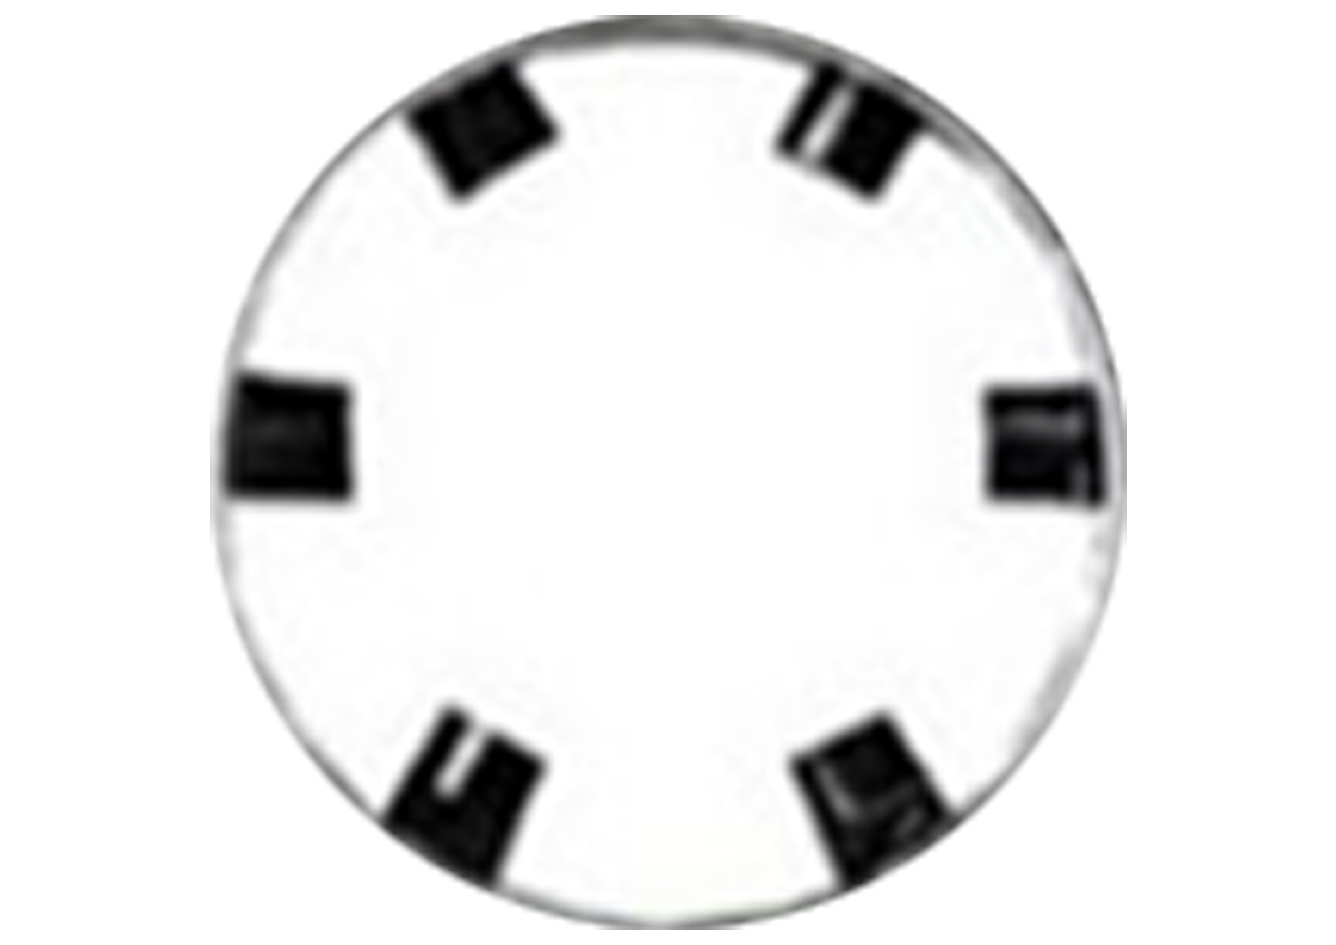
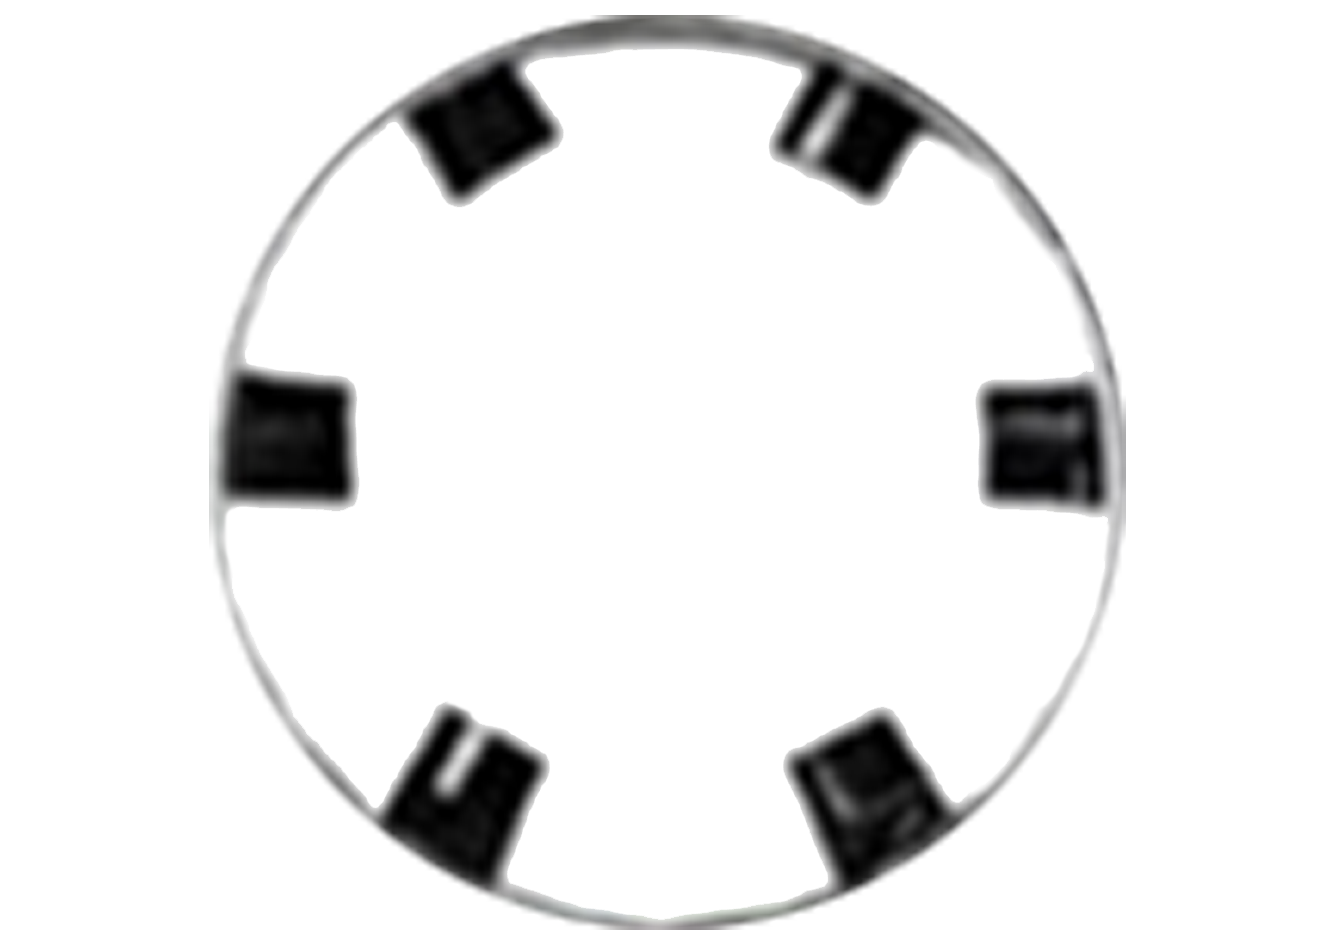
refactoring

diff --git a/index.html b/index.html
@@ -14,10 +14,10 @@
         <div class="cassette-body">
             <div class="rings">
                 <div class="tape-ring1">
-                    <img src="images/left ring t.png" height="41px">
+                    <img src="images/left ring.png" height="41px">
                 </div>
                 <div class="tape-ring2">
-                    <img src="images/right ring t.png" height="41px">
+                    <img src="images/right ring.png" height="41px">
                 </div>
             </div>
         </div>

diff --git a/main.css b/main.css
@@ -3,7 +3,6 @@
 body{
     background: radial-gradient(#1e1e1e, #656668, #1e1e1e, #666565);
 	background-size: 600% 600%;
-    background-position: absolute;
 	animation: gradient 12s ease infinite;
 	height: 100vh;
     display: flex;
@@ -64,7 +63,7 @@ body{
     height: 275px;
     width: 400px;
     padding-bottom: 50px;
-    background-image: url("images/casette\ 2.png");
+    background-image: url("images/awesome\ mix.png");
     background-size: 350px;
     background-repeat: no-repeat;
     background-position: center;

diff --git a/README.md b/README.md
@@ -1,3 +1,23 @@
-# projectOne
-Project 1
+![](https://github.com/dororeo/AwesomeMixVol3/groot_gif.gif)
 
+# Music Player (GOTG Vol. 3 Soundtrack)
+
+## Project Details
+
+### Summary
+
+- Music Player featuring 8 out of 14 songs from the official Guardians of the Galaxt Vol. 3 soundtrack.
+
+- Built with HTML, CSS and JavaScript.
+
+
+
+#### [Live Site](https://dororeo.github.io/AwesomeMixVol3/)
+
+### Approach
+
+
+
+
+
+Awesome Mix image by [Amateur-designs](https://www.redbubble.com/people/Amateur-designs/explore?page=1&sortOrder=top%20selling#profile).
